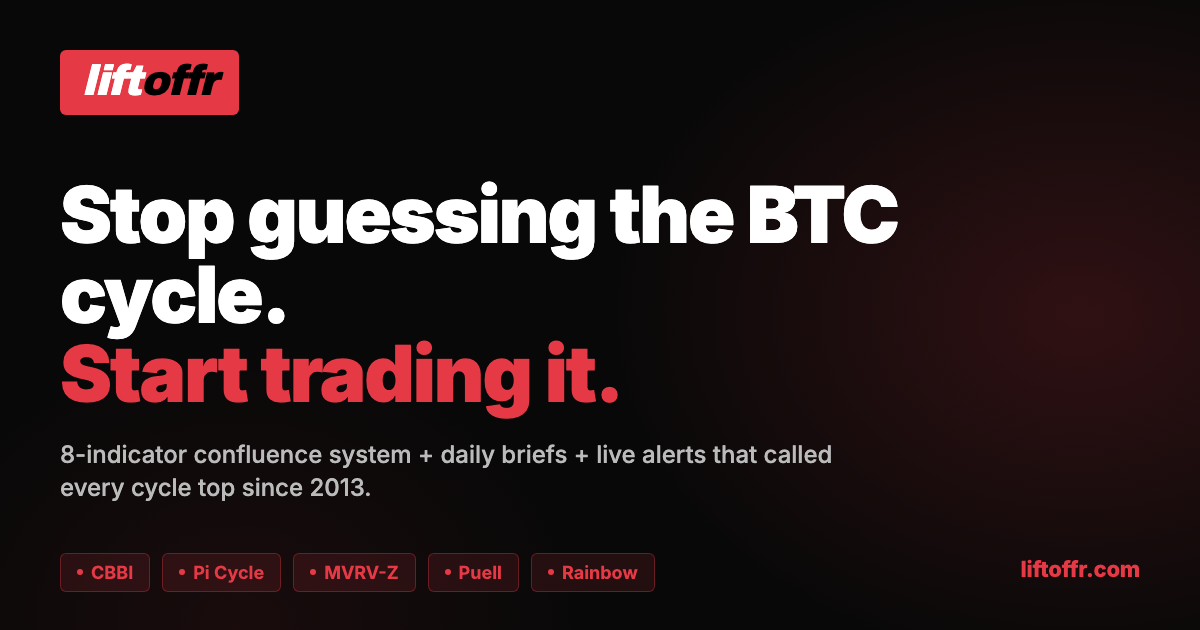
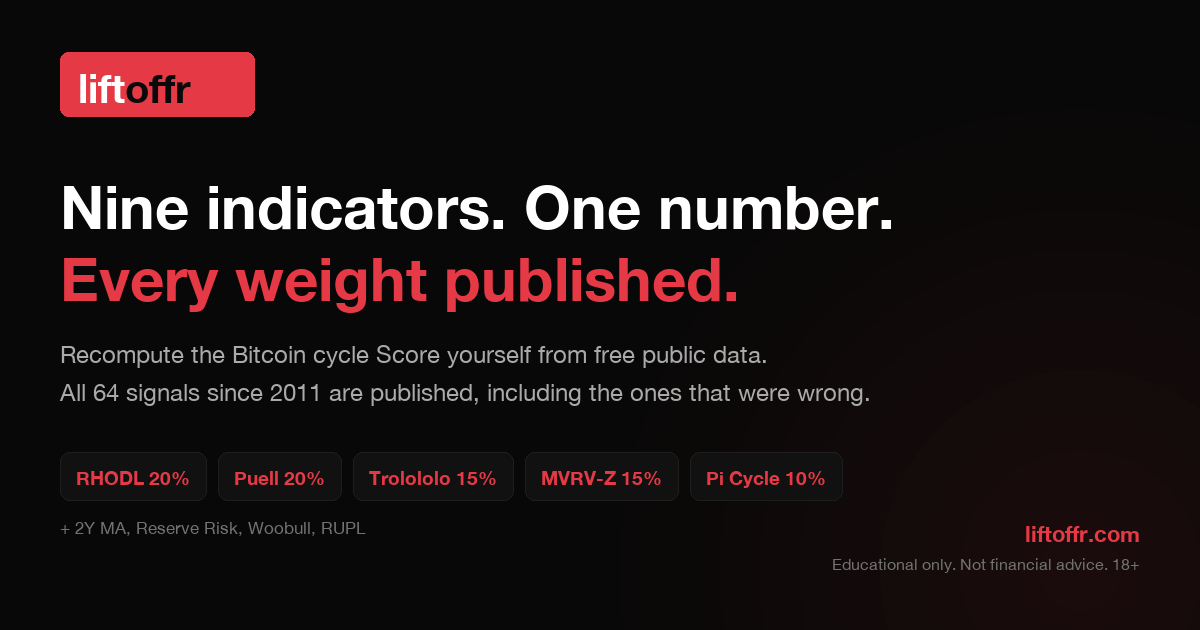
Replace the founder imagery and rebuild the social share card
Photos from ~/Desktop/TORIN/Torin Pics. I looked at all 20 rather than picking on
filename. Eighteen are supercars (Lamborghini Urus, Corvette, McLaren, Porsche,
Cybertruck), golf, a yacht, or rooftop cocktails -- the exact register the FTC's
7 Aug 2026 alert on investment-training scams opens by naming, aimed at an audience
that is 46.7% aged 18-24.

Two show work, and both are now in use:
  IMG_5646 2 (seated at a laptop, focused) -> img/torin-founder.jpg/.webp, the author
    photo on seven pages and the /about social image.
  IMG_5639 2 (walking with a laptop and coffee) -> the homepage hero background, its
    mobile variant, and img/torin-about.jpg.

Sources are 2400x3000 and every target was already 4:5, so these are straight resizes
with no crop -- composition is preserved and the hero's existing
`background-position: center 25%` still frames the subject.

img/torin-urus.jpg and img/torin-corvette.jpg are deleted, not just unreferenced.

The share card was carrying the contradictions this whole branch removed. og-image.png
is what renders when anyone posts liftoffr.com anywhere, and it read "8-indicator
confluence system + daily briefs + live alerts that called every cycle top since 2013"
-- the wrong indicator count, the signal-service "alerts" framing, and an absolute
accuracy claim, all three of which the site itself now contradicts. Rebuilt from the
real weights: nine indicators, every weight published, 64 signals including the wrong
[…]

diff --git a/about/index.html b/about/index.html
@@ -297,33 +297,17 @@ j=d.createElement(s),dl=l!='dataLayer'?'&l='+l:'';j.async=true;j.src=
         <span class="hero-role">Founder, LiftOffr</span>
       </div>
     </div>
-    <!-- ============================================================================
-         OPEN ITEM FOR TORIN -- NOT RESOLVED IN THE 2026-08-20 PASS. NEEDS AN ASSET.
-
-         This image is /img/torin-urus.jpg, a Lamborghini, sitting directly above copy
-         about learning to time crypto cycles. The FTC's 7 Aug 2026 consumer alert on
-         investment-training scams opens by naming exactly this pairing: "people flashing
-         fancy cars and exotic trips, claiming you can have the same lifestyle just by
-         learning to trade." The action it points to (IYOVIA / IM Mastery Academy,
-         $795.8M, May 2026) was built on false earnings claims aimed at young people.
-         This account's followers are 46.7% aged 18-24. The shot also sits two screens
-         above "the brand is anti-influencer for a reason."
-
-         The car PARAGRAPH and the Corvette polaroid were removed in this pass. The
-         imagery was not, because every founder photo in /img is a Lamborghini shot --
-         torin-founder.jpg (Lambo interior) is the author photo on seven pages and both
-         OG images, and torin-hero-bg.jpg (Lambo exterior) is the homepage hero
-         background. Swapping them needs photographs that do not exist yet, and pointing
-         at files that aren't there would 404 on your highest-trust page.
-
-         WHAT TO DO: shoot a handful of non-car founder images -- desk, rig, screen,
-         uniform, anything that is you working -- and replace torin-founder.jpg,
-         torin-hero-bg.jpg and this file. That single shoot clears the exposure across
-         the whole site. Until then this is a known, documented risk, not an oversight.
-         ============================================================================ -->
+    <!-- Founder imagery replaced 2026-08-20 from ~/Desktop/TORIN/Torin Pics.
+         Previously /img/torin-urus.jpg, a Lamborghini, directly above copy about
+         learning to time crypto cycles -- the pairing the FTC's 7 Aug 2026 consumer
+         alert on investment-training scams opens by naming, aimed at an audience that
+         is 46.7% aged 18-24. Of the 20 images in that folder, 18 are supercars, golf,
+         a yacht or rooftop cocktails; the two that show work were the only candidates
+         and both are now in use. Do not put a car back in this slot. -->
     <div class="hero-img">
-      <img src="/img/torin-urus.jpg" alt="Torin Christianson, founder of LiftOffr, in Tampa" fetchpriority="high">
-      <div class="hero-img-tag"><span>Tampa ·</span> Nine years of decisions, written down.</div>
+      <img src="/img/torin-about.jpg" alt="Torin Christianson, founder of LiftOffr, carrying a laptop in Tampa" fetchpriority="high">
+      <div class="hero-img-tag"><span>Tampa &middot;</span> Nine years of decisions, written down.</div>
+    </div>
     </div>
   </div>
 
